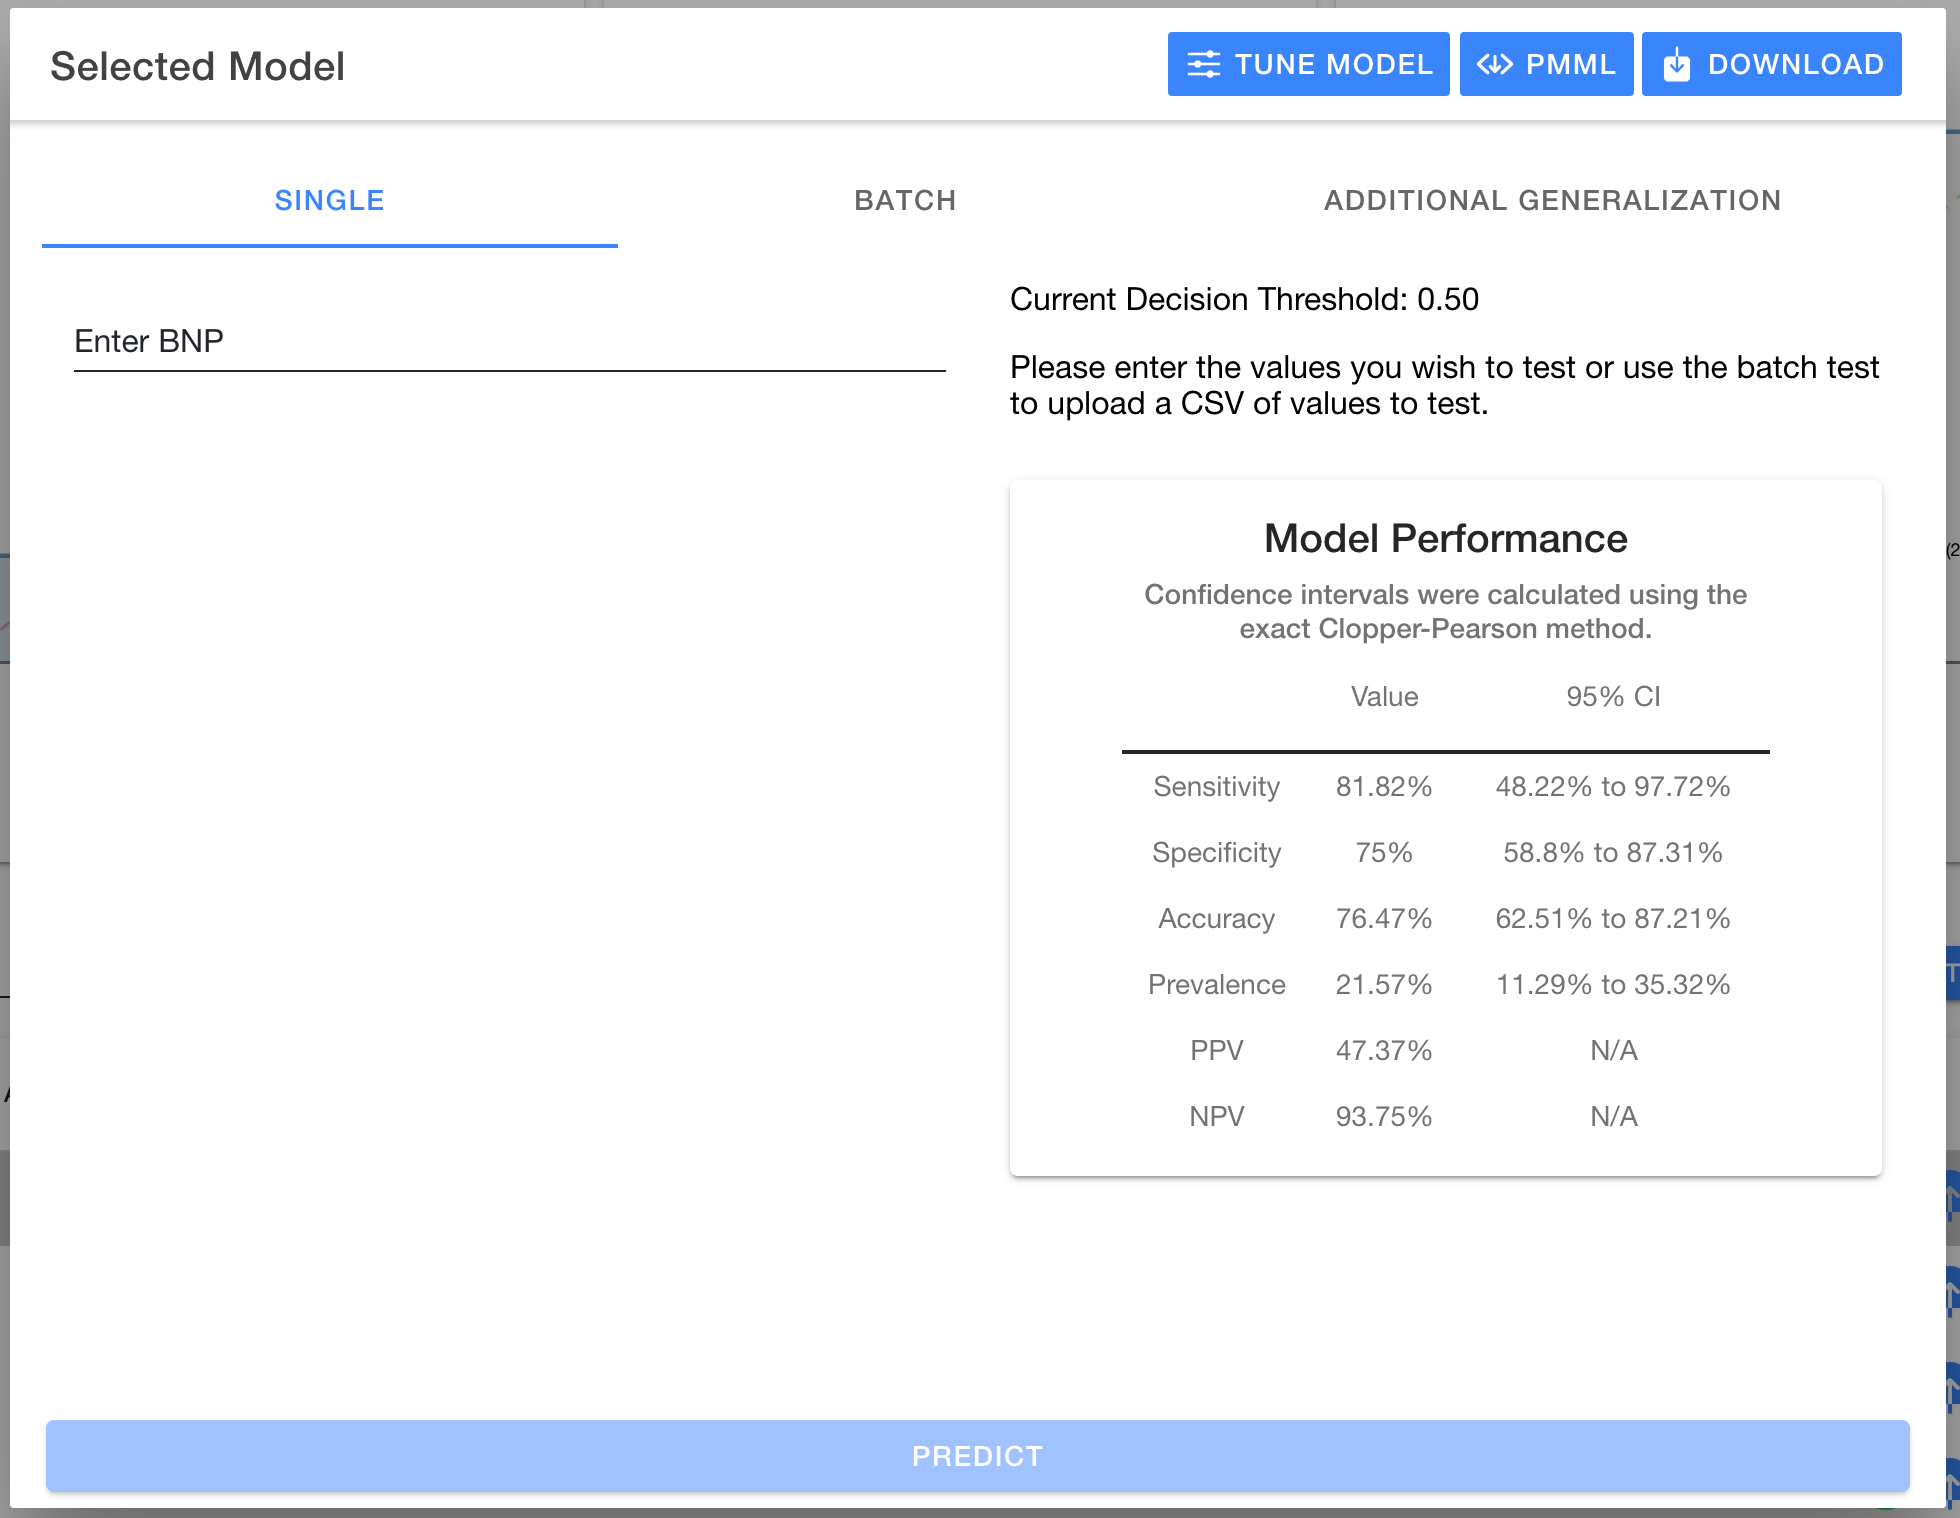
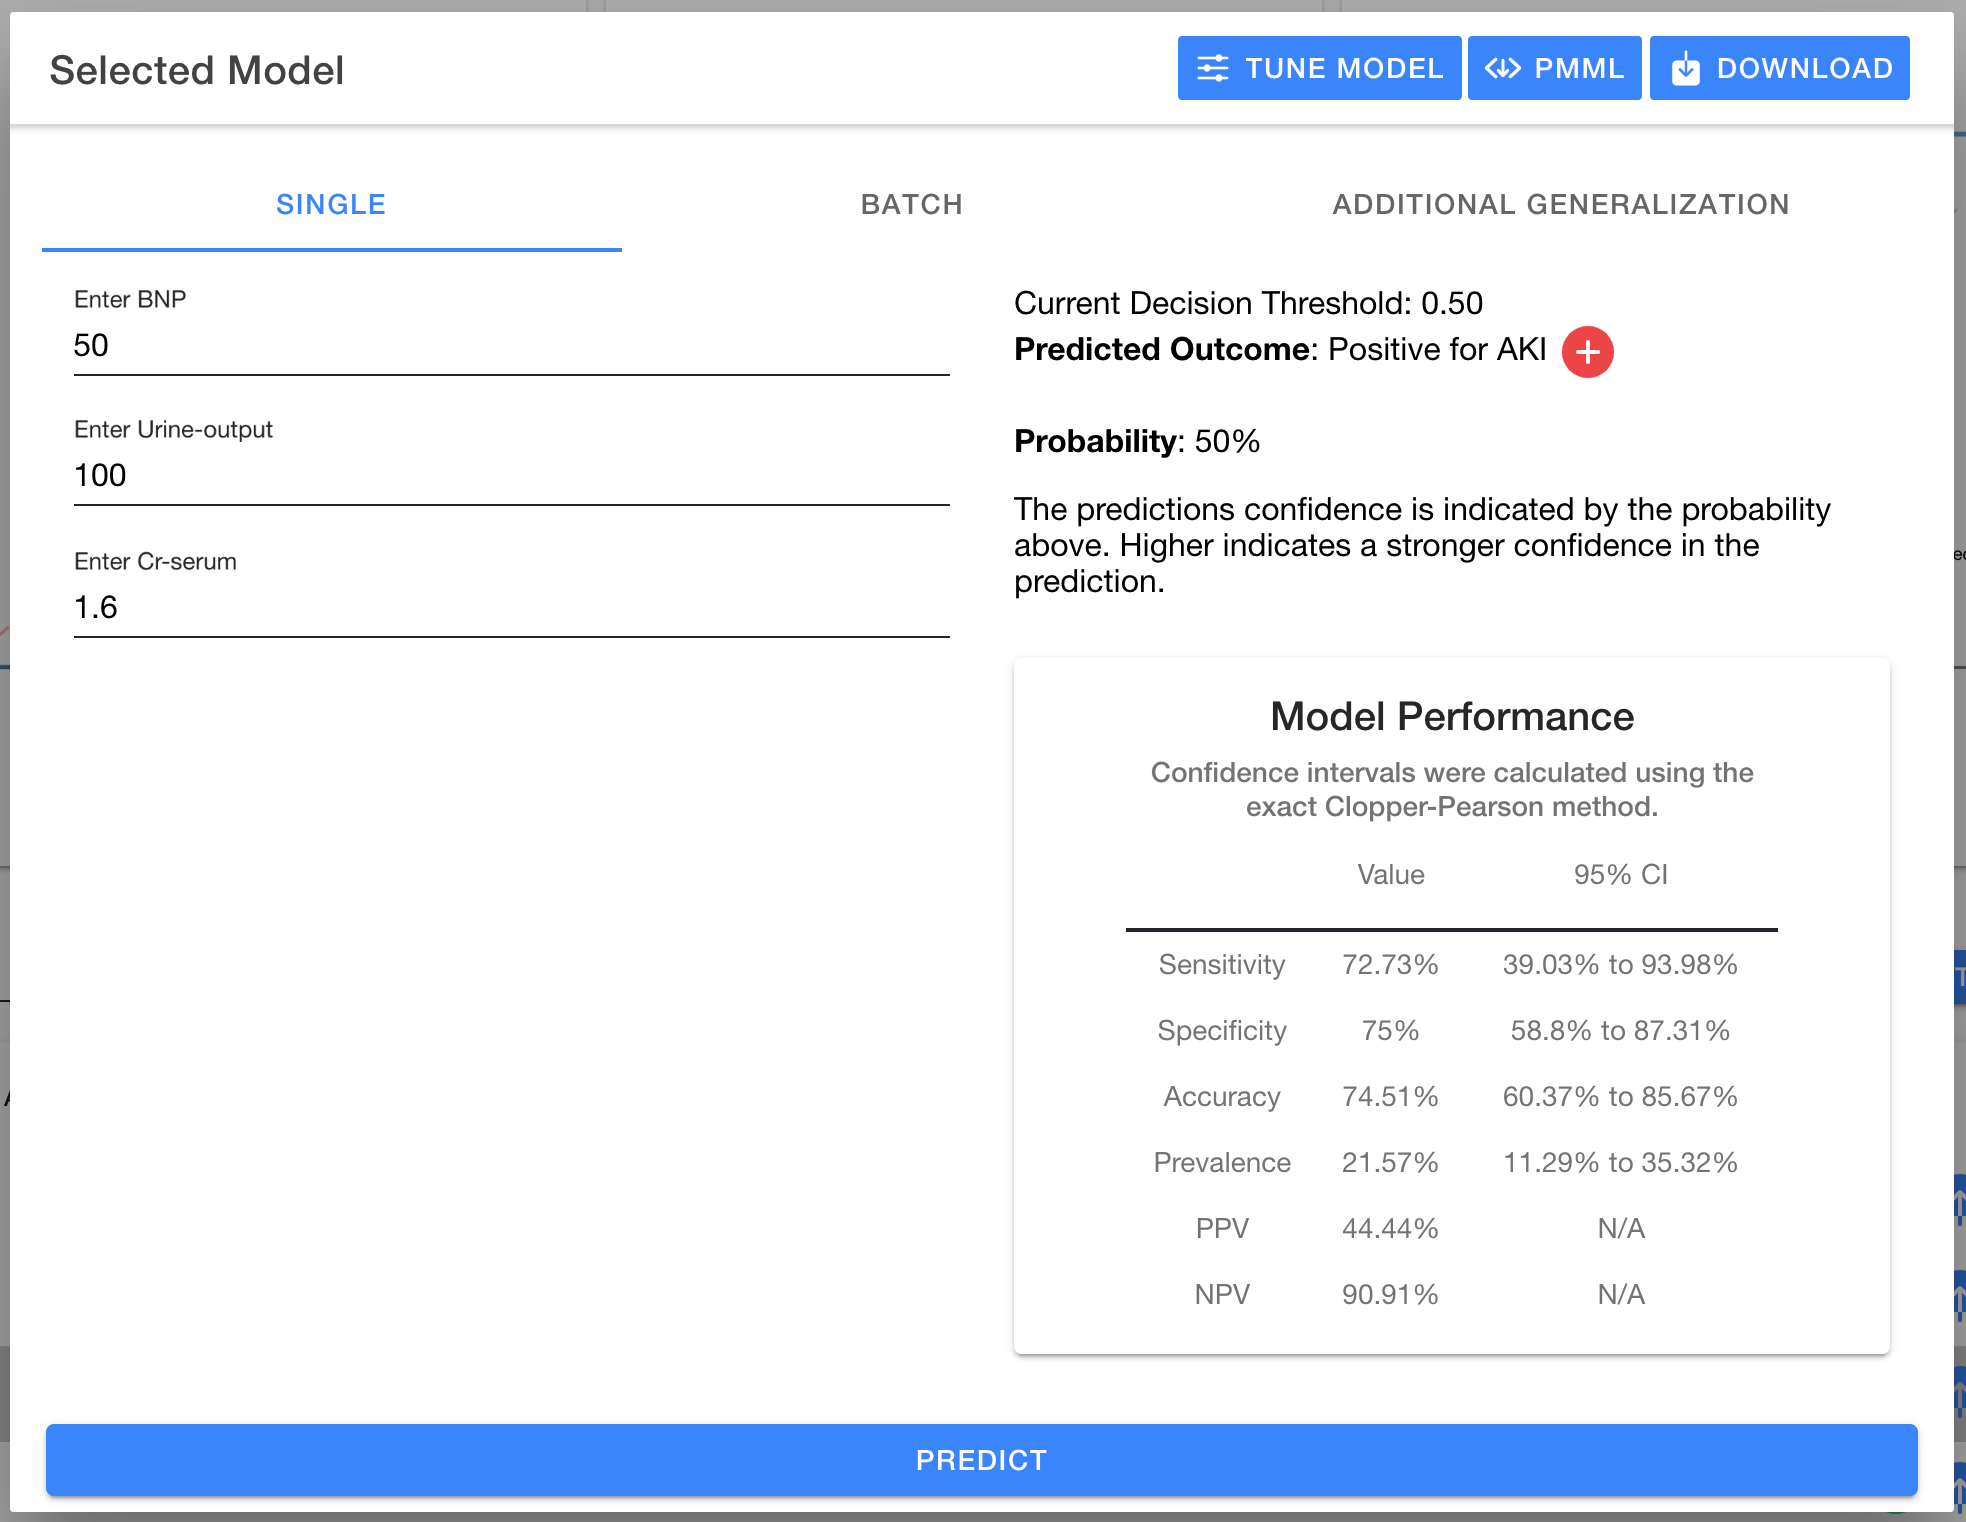
Update all documentation

diff --git a/docs/docs/guide/test-model.md b/docs/docs/guide/test-model.md
@@ -1,9 +1,41 @@
 # Test model
 
+Testing a model allows you to provide additional input data and get a predication from the selected model.
+
 ## Manual entry
+
+Data can be input ad hoc using the `Single` entry fields allowing a predication to be calculated on the entered data. The result will be displayed in the modal on the right hand side along with a graphic indicating positive or negative.
+
+![Single test](./images/single-test.png)
+
+Once a predication is made, the right hand side will show the predicated outcome and the probability of the outcome.
+
+## Decision Threshold
+
+Every model defaults to using 0.5 as the decision threshold meaning if the probability for an outcome is below 50% then the prediction is negative versus 50% or greater is marked as positive.
+
+The decision threshold can be adjusted between a range of 0.3 to 0.7. This allows predicated outcomes to reflect this new decision threshold.
+
+The `Tune Model` button allows you to adjust model characteristics including the decision threshold. This will show a modal as shown here:
+
+![Tune Model](./images/tune-model.png)
 
 ## Batch entry
 
+Additionally, you may provide a spreadsheet of data for use in the `Batch` mode. This allows the model to predict on every row of data and adds a new column at the end which contains the target column and the predicated outcome. An additional column is also added to show the probability of each outcome.
+
+![Batch Test](./images/batch-test.png)
+
+## Additional Generalization
+
+Lastly, you may pass labeled data (similar to the generalization data set uploaded in [Step 1](./selecting-dataset.md)) and have the `Model Performance` be re-calculated for the provided dataset. The result will be shown in the modal replacing the previous performance.
+
+![Additional Generalization](./images/additional-generalization.png)
+
 ## Download PMML
 
+Predictive Model Markup Language (PMML) is an interchange format using XML allowing a model to be exported out of MILO and used in an outside scope (e.g. Epic EHR). To download the PMML if your model, simply use the `PMML` button in the header of the modal.
+
 ## Download joblib
+
+An addition to PMML export of a model, you may also export a pickled version of the model which can be used in Python applications to directly restore the model into memory. To download the pickled model, simply use the `Download` button in the header of the modal.

diff --git a/docs/docs/guide/publish-model.md b/docs/docs/guide/publish-model.md
@@ -1,7 +1,29 @@
 # Publish model
 
+A published model allows users to visit a dedicated page for the model and perform tests against the model.
+
 ## Publish new model
+
+You may publish a model from the [Model results](./model-results.md#publish-model) page. Please follow those steps to publish a model.
 
 ## Access published model
 
+When you successfully create a model, you will be provided a URL to access the published model. This will appear as follows:
+
+![Published](./images/published.png)
+
+You will notice a link to access your published model which corresponds to the current host being used to access MILO combined with `model/<name>` where `<name>` is the name of the published model you provided in the creation step. This is the URL you can provide to stakeholders to test the model published.
+
 ## Delete published model
+
+Removing a published model can be done on the home page of the MILO application (also referred to as [Step 1](./selecting-dataset.md)).
+
+If you have a published model, you will see a new section at the bottom of the page, shown below:
+
+![Published Models](./images/published-models.png)
+
+Clicking the name of the model allows you to manage the published model by presenting the following popup:
+
+![Manage Published Model](./images/manage-published-model.png)
+
+From here you may delete the published model, rename the model or open the model in a new tab.
